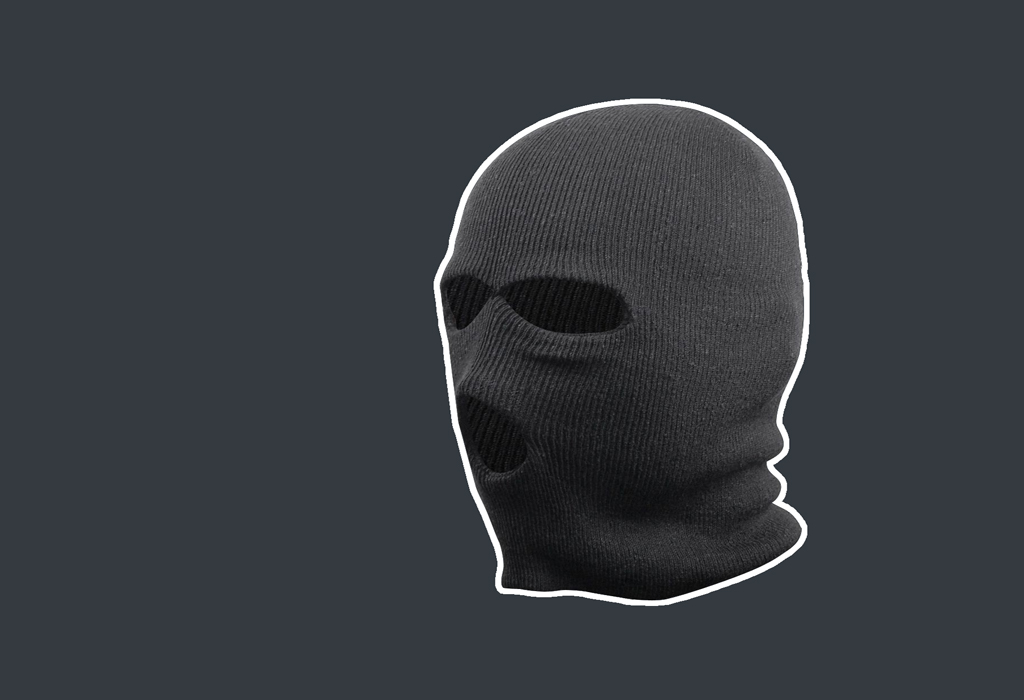
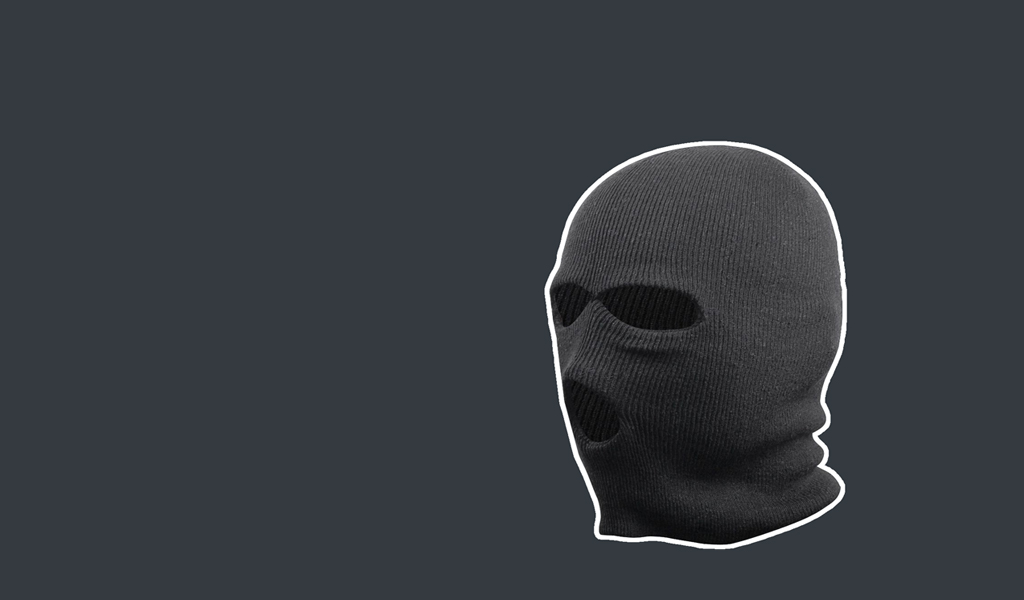
H4T ST0R3: product images & copy

Changed region(s): [[0.4062, 0.12, 0.8438, 0.93]]

diff --git a/hw_13_final_1/pages/white-hat.html b/hw_13_final_1/pages/white-hat.html
@@ -11,6 +11,7 @@
         integrity="sha384-ggOyR0iXCbMQv3Xipma34MD+dH/1fQ784/j6cY/iJTQUOhcWr7x9JvoRxT2MZw1T" crossorigin="anonymous">
 
     <link rel="stylesheet" type="text/css" media="screen" href="../styles/main.css">
+    <link rel="stylesheet" type="text/css" media="screen" href="../styles/white.css">
     <link href="https://fonts.googleapis.com/css?family=Oswald:500|Roboto&display=swap" rel="stylesheet">
 
     <title>H4T ST0R3 - White Hat</title>
@@ -66,7 +67,7 @@
         <div class="jumbotron text-center bg-transparent mt-4 mt-sm-5">
             <div class="container">
                 <h1 class="jumbotron-heading">White Hat</h1>
-                <p class="lead text-muted">Perhaps the most famous white-hat-wearing cowboy, the Lone Ranger, debuted on the radio during this decade and first
+                <p class="lead">Perhaps the most famous white-hat-wearing cowboy, the Lone Ranger, debuted on the radio during this decade and first
                 rode onto the screen in 1938.</p>
             </div>
         </div>
@@ -77,20 +78,19 @@
         
             <div class="row featurette py-xs-2 py-4">
                 <div class="col-md-7">
-                    <h2 class="featurette-heading hat-store">First Hat</h2>
-                    <p class="lead text-muted">Donec ullamcorper nulla non metus auctor fringilla. Vestibulum id ligula porta
-                        felis euismod
-                        semper. Praesent commodo cursus magna, vel scelerisque nisl consectetur. Fusce dapibus, tellus ac cursus
-                        commodo.</p>
+                    <h2 class="featurette-heading hat-store">Beanie</h2>
+                    <p class="lead">Knitted caps are common in cold climates, and are worn worldwide in various forms. They have become the common headgear
+                    for stereotypical dockworkers and sailors in movies and television.</p>
                 </div>
                 <div class="col-md-5">
-                    <svg class="bd-placeholder-img bd-placeholder-img-lg featurette-image img-fluid mx-auto" width="500"
+                    <img src="../assets/images/product/01-w-beanie.jpg" alt="" class="img-fluid">
+                    <!-- <svg class="bd-placeholder-img bd-placeholder-img-lg featurette-image img-fluid mx-auto" width="500"
                         height="500" xmlns="http://www.w3.org/2000/svg" preserveAspectRatio="xMidYMid slice" focusable="false"
                         role="img" aria-label="Placeholder: 500x500">
                         <title>Placeholder</title>
                         <rect width="100%" height="100%" fill="#eee" /><text x="50%" y="50%" fill="#aaa"
                             dy=".3em">500x500</text>
-                    </svg>
+                    </svg> -->
                 </div>
             </div>
         
@@ -98,20 +98,13 @@
         
             <div class="row featurette py-xs-2 py-4">
                 <div class="col-md-7 order-md-2">
-                    <h2 class="featurette-heading hat-store">Second Hat</h2>
-                    <p class="lead text-muted">Donec ullamcorper nulla non metus auctor fringilla. Vestibulum id ligula porta
-                        felis euismod
-                        semper. Praesent commodo cursus magna, vel scelerisque nisl consectetur. Fusce dapibus, tellus ac cursus
-                        commodo.</p>
+                    <h2 class="featurette-heading hat-store">Baseball Hat</h2>
+                    <p class="lead text">The baseball cap is a part of the traditional baseball uniform worn by players, with the brim pointing forward to shield
+                    the eyes from the sun. Since the 1980s varieties of the cap have become a common fashion accessory, particularly in the
+                    United States.</p>
                 </div>
                 <div class="col-md-5 order-md-1">
-                    <svg class="bd-placeholder-img bd-placeholder-img-lg featurette-image img-fluid mx-auto" width="500"
-                        height="500" xmlns="http://www.w3.org/2000/svg" preserveAspectRatio="xMidYMid slice" focusable="false"
-                        role="img" aria-label="Placeholder: 500x500">
-                        <title>Placeholder</title>
-                        <rect width="100%" height="100%" fill="#eee" /><text x="50%" y="50%" fill="#aaa"
-                            dy=".3em">500x500</text>
-                    </svg>
+                    <img src="../assets/images/product/02-w-baseball.jpg" alt="" class="img-fluid">
                 </div>
             </div>
         
@@ -119,11 +112,9 @@
         
             <div class="row featurette py-xs-2 py-4">
                 <div class="col-md-7">
-                    <h2 class="featurette-heading hat-store">Third Hat</h2>
-                    <p class="lead text-muted">Donec ullamcorper nulla non metus auctor fringilla. Vestibulum id ligula porta
-                        felis euismod
-                        semper. Praesent commodo cursus magna, vel scelerisque nisl consectetur. Fusce dapibus, tellus ac cursus
-                        commodo.</p>
+                    <h2 class="featurette-heading hat-store">Flat Cap</h2>
+                    <p class="lead">The  flat cap is sometimes associated with older men, skinheads, the Oi!, punk, and hip hop
+                    subcultures, sometimes worn back-to-front or cocked to the side.</p>
                 </div>
                 <div class="col-md-5">
                     <svg class="bd-placeholder-img bd-placeholder-img-lg featurette-image img-fluid mx-auto" width="500"
@@ -140,12 +131,9 @@
         
             <div class="row featurette py-xs-2 py-4">
                 <div class="col-md-7 order-md-2">
-                    <h2 class="featurette-heading hat-store">Fourth Hat</h2>
-                    <p class="lead text-muted">Donec ullamcorper nulla non metus auctor fringilla. Vestibulum id ligula porta
-                        felis
-                        euismod
-                        semper. Praesent commodo cursus magna, vel scelerisque nisl consectetur. Fusce dapibus, tellus ac cursus
-                        commodo.</p>
+                    <h2 class="featurette-heading hat-store">Bucket Hat</h2>
+                    <p class="lead">Traditionally worn by Irish farmers and fishermen as protection from the rain. The modern bucket hat is derived from a tropical hat that was issued to the US Army during
+                    the Vietnam War. These lightweight hats became popular among civilians for use in sports such as fishing, and as sun protection.</p>
                 </div>
                 <div class="col-md-5 order-md-1">
                     <svg class="bd-placeholder-img bd-placeholder-img-lg featurette-image img-fluid mx-auto" width="500"
@@ -166,20 +154,20 @@
 
     <!-- footer -->
     
-    <footer class="container text-muted bg-transparent py-1 mb-4">
+    <footer class="container bg-transparent py-1 mb-4">
         <div class="row">
             <div class="col-sm-8 col-md-7">
-                <h4 class="text-white">About</h4>
-                <p class="text-muted">Add some information about the album below, the author, or any other
+                <h4>About</h4>
+                <p>Add some information about the album below, the author, or any other
                     background context. Make it a few sentences long so folks can pick up some informative
                     tidbits. Then, link them off to some social networking sites or contact information.</p>
             </div>
             <div class="col-sm-4 offset-md-1 mt-3">
-                <h4 class="text-white">Contact</h4>
+                <h4>Contact</h4>
                 <ul class="list-unstyled">
-                    <li><a href="#" class="text-white">Follow on Twitter</a></li>
-                    <li><a href="#" class="text-white">Like on Facebook</a></li>
-                    <li><a href="#" class="text-white">Email me</a></li>
+                    <li><a href="#">Follow on Twitter</a></li>
+                    <li><a href="#">Like on Facebook</a></li>
+                    <li><a href="#">Email me</a></li>
                 </ul>
                 <a href="#"><img class="arrow-rotate float-right" src="../assets/images/arrow.svg" alt="" width="32"
                         height="32"></a>

diff --git a/hw_13_final_1/pages/black-hat.html b/hw_13_final_1/pages/black-hat.html
@@ -78,18 +78,12 @@
             
             <div class="row featurette py-xs-2 py-4">
                 <div class="col-md-7">
-                    <h2 class="featurette-heading hat-store">First Hat</h2>
-                    <p class="lead text-muted">Donec ullamcorper nulla non metus auctor fringilla. Vestibulum id ligula porta felis euismod
-                        semper. Praesent commodo cursus magna, vel scelerisque nisl consectetur. Fusce dapibus, tellus ac cursus
-                        commodo.</p>
+                    <h2 class="featurette-heading hat-store">Balaclava</h2>
+                    <p class="lead text-muted">Modern balaclavas are used in outdoor winter sports such as skiing, snowboarding, and snowmobiling to protect the face
+                    from wind and maintain warmth. They are also popular among motorcyclists and bicyclists.</p>
                 </div>
                 <div class="col-md-5">
-                    <svg class="bd-placeholder-img bd-placeholder-img-lg featurette-image img-fluid mx-auto" width="500"
-                        height="500" xmlns="http://www.w3.org/2000/svg" preserveAspectRatio="xMidYMid slice" focusable="false"
-                        role="img" aria-label="Placeholder: 500x500">
-                        <title>Placeholder</title>
-                        <rect width="100%" height="100%" fill="#eee" /><text x="50%" y="50%" fill="#aaa" dy=".3em">500x500</text>
-                    </svg>
+                    <img src="../assets/images/product/01-b-balaclava.jpg" alt="" class="img-fluid">
                 </div>
             </div>
             
@@ -97,18 +91,18 @@
             
             <div class="row featurette py-xs-2 py-4">
                 <div class="col-md-7 order-md-2">
-                    <h2 class="featurette-heading hat-store">Second Hat</h2>
-                    <p class="lead text-muted">Donec ullamcorper nulla non metus auctor fringilla. Vestibulum id ligula porta felis euismod
-                        semper. Praesent commodo cursus magna, vel scelerisque nisl consectetur. Fusce dapibus, tellus ac cursus
-                        commodo.</p>
+                    <h2 class="featurette-heading hat-store">Leather Cap</h2>
+                    <p class="lead text-muted">The black leather flat cap is often combined with a patched-up sport coat or leather jacket and dark clothes in popular culture to depict a burglar, mugger, or robber, occasionally
+                    with a domino mask.</p>
                 </div>
                 <div class="col-md-5 order-md-1">
-                    <svg class="bd-placeholder-img bd-placeholder-img-lg featurette-image img-fluid mx-auto" width="500"
+                    <img src="../assets/images/product/02-b-leather-cap.jpg" alt="" class="img-fluid">
+                    <!-- <svg class="bd-placeholder-img bd-placeholder-img-lg featurette-image img-fluid mx-auto" width="500"
                         height="500" xmlns="http://www.w3.org/2000/svg" preserveAspectRatio="xMidYMid slice" focusable="false"
                         role="img" aria-label="Placeholder: 500x500">
                         <title>Placeholder</title>
                         <rect width="100%" height="100%" fill="#eee" /><text x="50%" y="50%" fill="#aaa" dy=".3em">500x500</text>
-                    </svg>
+                    </svg> -->
                 </div>
             </div>
             
@@ -116,18 +110,12 @@
             
             <div class="row featurette py-xs-2 py-4">
                 <div class="col-md-7">
-                    <h2 class="featurette-heading hat-store">Third Hat</h2>
-                    <p class="lead text-muted">Donec ullamcorper nulla non metus auctor fringilla. Vestibulum id ligula porta felis euismod
-                        semper. Praesent commodo cursus magna, vel scelerisque nisl consectetur. Fusce dapibus, tellus ac cursus
-                        commodo.</p>
+                    <h2 class="featurette-heading hat-store">Fedora</h2>
+                    <p class="lead text-muted"> The women's rights movement adopted the fedora as a Fashionable symbol. After Edward, Prince
+                    of Wales started wearing them in 1924, it became popular among men for its stylishness and its ability to protect the wearer's head from the weather.</p>
                 </div>
                 <div class="col-md-5">
-                    <svg class="bd-placeholder-img bd-placeholder-img-lg featurette-image img-fluid mx-auto" width="500"
-                        height="500" xmlns="http://www.w3.org/2000/svg" preserveAspectRatio="xMidYMid slice" focusable="false"
-                        role="img" aria-label="Placeholder: 500x500">
-                        <title>Placeholder</title>
-                        <rect width="100%" height="100%" fill="#eee" /><text x="50%" y="50%" fill="#aaa" dy=".3em">500x500</text>
-                    </svg>
+                    <img src="../assets/images/product/03-b-fedora.jpg" alt="" class="img-fluid">
                 </div>
             </div>
             
@@ -135,19 +123,12 @@
 
             <div class="row featurette py-xs-2 py-4">
                 <div class="col-md-7 order-md-2">
-                    <h2 class="featurette-heading hat-store">Fourth Hat</h2>
-                    <p class="lead text-muted">Donec ullamcorper nulla non metus auctor fringilla. Vestibulum id ligula porta felis
-                        euismod
-                        semper. Praesent commodo cursus magna, vel scelerisque nisl consectetur. Fusce dapibus, tellus ac cursus
-                        commodo.</p>
+                    <h2 class="featurette-heading hat-store">Cowboy Hat</h2>
+                    <p class="lead text-muted">In American Westerns very few white hats are worn, either by heroes or villains. White cowboy hats aren't particularly realistic. Imagine how dirty a white hat becomes in a dusty
+                    environment.</p>
                 </div>
                 <div class="col-md-5 order-md-1">
-                    <svg class="bd-placeholder-img bd-placeholder-img-lg featurette-image img-fluid mx-auto" width="500"
-                        height="500" xmlns="http://www.w3.org/2000/svg" preserveAspectRatio="xMidYMid slice" focusable="false"
-                        role="img" aria-label="Placeholder: 500x500">
-                        <title>Placeholder</title>
-                        <rect width="100%" height="100%" fill="#eee" /><text x="50%" y="50%" fill="#aaa" dy=".3em">500x500</text>
-                    </svg>
+                    <img src="../assets/images/product/04-b-cowboy-hat.jpg" alt="" class="img-fluid">
                 </div>
             </div>
             

diff --git a/hw_13_final_1/index.html b/hw_13_final_1/index.html
@@ -70,10 +70,10 @@
             </ol>
             <div class="carousel-inner">
                 <div class="carousel-item active">
-                    <img src="assets/images/01-black-hat.jpg" alt="" width="1024" height="700">
-                    <!-- <svg class="bd-placeholder-img" width="100%" height="100%" xmlns="http://www.w3.org/2000/svg"
+                    <!-- <img src="assets/images/01-black-hat.jpg" alt=""> -->
+                    <svg class="bd-placeholder-img" width="100%" height="100%" xmlns="http://www.w3.org/2000/svg"
                         preserveAspectRatio="xMidYMid slice" focusable="false" role="img">
-                        <rect width="100%" height="100%" fill="none" /></svg> -->
+                        <rect width="100%" height="100%" fill="none" /></svg>
                     <div class="container">
                         <div class="carousel-caption text-left">
                             <h1>Hat Symbolism</h1>

diff --git a/hw_13_final_1/styles/white.css b/hw_13_final_1/styles/white.css
@@ -1,0 +1,17 @@
+body {
+    /* background-color: #999999; */
+    background-color: #ccc;
+}
+
+h1, h2, h3, h4, h5, h6, .featurette-heading {
+    font-family: 'Oswald', sans-serif;
+    color: #333;
+}
+
+p, a{
+    color: #666;
+}
+.border-custom {
+    border-image-source: linear-gradient(90deg, #ccc, #343a40, #ccc);
+    border-image-slice: 1;
+}
